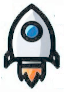
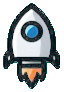
io

diff --git a/basik/pg/doc/index.html b/basik/pg/doc/index.html
@@ -103,12 +103,17 @@
 <h2 id="gambaran-umum">📖 Gambaran Umum</h2>
 <p>BASIK adalah kumpulan perintah/fungsi javascript yang bisa dipakai sebagai media pembelajaran pengenalan koding untuk pemula. BASIK mengenalkan pemrograman kepada pemula dengan membuat aplikasi interaktif berbasis kanvas sederhana. Cocok untuk siswa, guru, atau siapa saja yang ingin belajar dasar pemrograman visual.</p>
 <p>Prinsip-prinsip dasar BASIK
-- Semua perintah bisa langsung dilihat hasilnya tanpa dibingungkan dengan struktur yang kompleks. 
-- Tidak perlu install aplikasi tambahan. BASIK berjalan sepenuhnya di browser.
-- Bisa jalan secara daring ataupun luring.
-- Format perintah bersifat procedural, menghindari penggunaan format yang kompleks seperti callback, class, dll.</p>
+- Perintah yang disederhanakan ✅ 
+- Tanpa install server 📐
+- Memancing kreatifitas 🔥
+- Umpan balik langsung ⚡
+- Fungsi bawaan siap pakai 🧠
+- Struktur proyek siap digunakan 📦
+- Contoh yang variatif 🎨
+- Dapat digunakan secara luring/daring 🌐
+- Jalan di mobile ataupun desktop 📱</p>
 <h2 id="cara-pemakaian">📖 Cara pemakaian</h2>
-<p>Untuk pengguna daring, BASIK bisa di buka melalui alamat berikut: ...<br />
+<p>Untuk pengguna daring, BASIK bisa di buka melalui <a href="https://forkhub.github.io/basik/pg/editor.html">alamat ini</a> 
 Untuk pengguna luring, BASIK bisa di buka dengan membuka file <code>editor.html</code> di broser untuk memulai.  </p>
 <p>Contoh applikasi sederhana:</p>
 <pre><code>mulai();
@@ -126,7 +131,7 @@ roket.panjang = 90;
 roket.lebar = 70;
 stempel(roket);
 </code></pre>
-<p>Pada contoh di atas, kita memuat gambar terlebih dahulu, kemudian kita ubah posisi dan ukuran dari gambar tersebut dengan merubah property secara langsung, kemudian menempelkannya ke kanvas. Saat kita memuat gambar terlebih dahulu, maka kita tidak lagi menggunakan nama file sebagai parameter dari perintah <code>stempel()</code>. Kita menggunakan nama variable yang dijadikan referensi saat memuat gambar.</p>
+<p>Pada contoh di atas, kita memuat gambar terlebih dahulu, kemudian kita ubah posisi dan ukuran dari gambar tersebut dengan merubah property secara langsung, kemudian menempelkannya ke kanvas. Dengan kita tidak lagi menggunakan nama file sebagai parameter dari perintah <code>stempel()</code>. Kita menggunakan nama variable yang dijadikan referensi saat memuat gambar.</p>
 <p>Kita juga bisa merubah property dengan perintah yang lebih ringkas.</p>
 <pre><code>mulai();
 let roket = muatGambar(&quot;roket&quot;);
@@ -136,7 +141,7 @@ stempel(roket);
 </code></pre>
 <p>Daftar perintah lengkap bisa di lihat di <a href="api-doc-gambar.md">sini</a></p>
 <p>BASIK mendukung aplikasi interaktif dan dinamis dengan menyediakan fungsi bawaan yang menangani mouse, keyboard, update applikasi, dll.</p>
-<p>Di contoah di bawah ini menunjukkan bagaimana kita menghandle event update secara sederhana. Anda cukup membuat fungsi update(), dan fungsi ini akan dipanggil secara otomatis saat applikasi diupdate.</p>
+<p>Contoh ini menunjukkan bagaimana kita menghandle event update secara sederhana. Anda cukup membuat fungsi <code>update()</code>, maka fungsi ini akan dipanggil secara otomatis saat applikasi diupdate.</p>
 <pre><code>mulai();
 let roket = muatGambar(&quot;roket&quot;);
 pusatGambar(roket, 32, 46);
@@ -148,7 +153,7 @@ function update() {
     stempel(roket);
 }
 </code></pre>
-<p>BASIK juga menyediakan fungsi bawaan untuk menangani event-event yang berhubungan dengan mouse, touch dan keyboard.</p>
+<p>BASIK juga menyediakan fungsi bawaan untuk menangani event-event yang berhubungan dengan mouse, touch dan keyboard, contoh:</p>
 <pre><code>mulai();
 let roket = muatGambar(&quot;roket&quot;);
 pusatGambar(roket, 32, 46);
@@ -179,47 +184,49 @@ function update() {
 <p>Pada contoh di atas, kita menggunakan drag dengan tipe 1. User bisa mendrag gambar menggunakan mouse atau touch (bila di handphone). </p>
 <p>Dokumentasi lengkap mengenai cara menghandle event bisa dilihat di <a href="api-doc-event/">sini</a></p>
 <h2 id="gambar-sebagai-object">📝 Gambar sebagai object</h2>
-<p>BASIK memiliki object bawaan bernama object Gambar.
+<p>BASIK memiliki object bawaan <code>Gambar</code>.
 Object ini dibuat dengan perintah <code>muatGambar()</code>.</p>
-<p>Object <code>Gambar</code> memiliki property sebagai berikut:
-*   <code>x</code>: number<br />
-    posisi x 
-*   <code>y</code>: number<br />
-    posisi y 
-*   <code>alpha</code>: number<br />
-    transparansi (0 - 100)
-*   <code>pusatX</code>: number<br />
-    posisi pusat x
-*   <code>pusatY</code>: number<br />
-    posisi y 
-*   <code>panjang</code>: number<br />
-    panjang
-*   <code>lebar</code>: number<br />
-    lebar
-*   <code>rotasi</code>: number<br />
-    rotasi (0 - 360)
-*   <code>ubin</code>: boolean<br />
-    apakah gambar akan digambar sebagai ubin yang memenuhi layar
-*   <code>diDrag</code>: boolean<br />
-    apakah gambar sedang di drag
-*   <code>diTekan</code>: boolean<br />
-    apakah gambar sedang di tekan oleh mouse/jari
-*   <code>tipeDrag</code>: number<br />
-    tipe drag: 1 = geser, 2 = rotasi, 3 = geser tanpa sentuh, 4 = rotasi tanpa sentuh
-*   <code>dimuat</code>: boolean<br />
-    apakah gambar sudah selesai di muat
-*   <code>frame</code>: number<br />
-    nomor frame aktif, bila gambar berupa animasi spritesheet
-*   <code>panjangFrame</code>: number<br />
-    panjang dari tiap frame dalam animasi, bila gambar berupa animasi spritesheet. 
-*   <code>lebarFrame</code>: number<br />
-    lebar dari tiap frame, bila gambar berupa animasi spritesheet
-*   <code>dragAwalX</code>: number<br />
-    posisi awal x saat gambar mulai di drag
-*   <code>dragAwalY</code>: number<br />
-    posisi awal y saat gambar mulai di drag
-*   <code>ditekan</code>: boolean<br />
-    apakah gambar sedang di tekan</p>
+<p>Object <code>Gambar</code> memiliki property sebagai berikut:</p>
+<ul>
+<li><code>x</code>: number<br />
+    posisi x </li>
+<li><code>y</code>: number<br />
+    posisi y </li>
+<li><code>alpha</code>: number<br />
+    transparansi (0 - 100)</li>
+<li><code>pusatX</code>: number<br />
+    posisi pusat x</li>
+<li><code>pusatY</code>: number<br />
+    posisi y </li>
+<li><code>panjang</code>: number<br />
+    panjang</li>
+<li><code>lebar</code>: number<br />
+    lebar</li>
+<li><code>rotasi</code>: number<br />
+    rotasi (0 - 360)</li>
+<li><code>ubin</code>: boolean<br />
+    apakah gambar akan digambar sebagai ubin yang memenuhi layar</li>
+<li><code>diDrag</code>: boolean<br />
+    apakah gambar sedang di drag</li>
+<li><code>diTekan</code>: boolean<br />
+    apakah gambar sedang di tekan oleh mouse/jari</li>
+<li><code>tipeDrag</code>: number<br />
+    tipe drag: 1 = geser, 2 = rotasi, 3 = geser tanpa sentuh, 4 = rotasi tanpa sentuh</li>
+<li><code>dimuat</code>: boolean<br />
+    apakah gambar sudah selesai di muat</li>
+<li><code>frame</code>: number<br />
+    nomor frame aktif, bila gambar berupa animasi spritesheet</li>
+<li><code>panjangFrame</code>: number<br />
+    panjang dari tiap frame dalam animasi, bila gambar berupa animasi spritesheet. </li>
+<li><code>lebarFrame</code>: number<br />
+    lebar dari tiap frame, bila gambar berupa animasi spritesheet</li>
+<li><code>dragAwalX</code>: number<br />
+    posisi awal x saat gambar mulai di drag</li>
+<li><code>dragAwalY</code>: number<br />
+    posisi awal y saat gambar mulai di drag</li>
+<li><code>ditekan</code>: boolean<br />
+    apakah gambar sedang di tekan</li>
+</ul>
 <h2 id="lisensi">📖 Lisensi</h2>
 <p>GNU license</p>
 <hr /></div>
@@ -304,5 +311,5 @@ Object ini dibuat dengan perintah <code>muatGambar()</code>.</p>
 
 <!--
 MkDocs version : 1.6.1
-Build Date UTC : 2026-07-18 13:44:50.277989+00:00
+Build Date UTC : 2026-07-20 14:24:14.858371+00:00
 -->

diff --git a/basik/index.html b/basik/index.html
@@ -109,8 +109,9 @@
 	<main>
 		<section>
 			<h2>✨ Tentang BASIK</h2>
-			<p>BASIK adalah template JavaScript berbasis kanvas yang dirancang untuk memudahkan pembelajaran pemrograman
-				bagi pemula.</p>
+			<p>BASIK adalah sebuah platform pembelajaran koding dengan pendekatan interaktif dan permainan.
+			Murid bisa belajar koding sambil bermain membuat applikasi interaktif, games, simulasi, dll.
+			</p>
 		</section>
 
 		<section>
@@ -130,7 +131,7 @@
 
 		<section>
 			<h2>💾 Download</h2>
-			<p>Unduh template BASIK dan mulai belajar:</p>
+			<p>Unduh template BASIK dan mulai belajar secara luring:</p>
 			<a class="button" href="https://drive.google.com/file/d/1zEYIe2S3IFUF_YD0e-ECOmtPK0U0UxLy/view?usp=sharing"
 				target="_blank">Download BASIK</a>
 			<br />
@@ -138,7 +139,7 @@
 
 		<section>
 			<h2>Coba daring</h2>
-			<p>BASIK tersedia juga dalam versi html yang bisa diakses secara daring. Klik tombol berikut untuk membuka
+			<p>BASIK tersedia juga dalam versi yang bisa diakses secara daring. Klik tombol berikut untuk membuka
 				editor</p>
 			<a class="button" href="./pg/editor.html" target="_blank">EDITOR</a>
 			<br />
@@ -146,22 +147,23 @@
 
 		<section>
 			<h2>Dokumentasi</h2>
-			<a class="button" href="./pg/doc/index.html" target="_blank">tautan dokumentasi</a>
+			<p>Dokumentasi teknis berisi cara pemakaian dan perintah2 yang disediakan.</p>
+			<a class="button" href="./pg/doc/index.html" target="_blank">Dokumentasi</a>
 		</section>
 
 		<section>
 			<h2>Demo</h2>
 			<ul>
 				<li>
-					<a href="./pg/editor.html?url=./contoh/dasar_animasi.js">dasar animasi</a>
+					<a href="./pg/editor.html?url=./contoh/dasar_muat_image.js">memuat image</a>
 					<div>
-						Animasi dengan menggunakan spritesheet
+						Dasar memuat image dan menempelkan ke layar.
 					</div>
 				</li>
 				<li>
 					<a href="./pg/editor.html?url=./contoh/dasar_drag.js">drag</a>
 					<div>
-						Menggeser gambar
+						Menggeser gambar dengan mouse
 					</div>
 				</li>
 				<li>
@@ -171,21 +173,21 @@
 					</div>
 				</li>
 				<li>
-					<a href="./pg/editor.html?url=./contoh/dasar_drag_rotasi.js">drag rotasi</a>
+					<a href="./pg/editor.html?url=./contoh/dasar_drag_rotasi.js">memutar gambar</a>
 					<div>
-						Memutar gambar
+						Memutar gambar 
 					</div>
 				</li>
 				<li>
-					<a href="./pg/editor.html?url=./contoh/dasar_muat_image.js">memuat image</a>
-					<div>
-						Memuat gambar
-					</div>
-				</li>
-				<li>
-					<a href="./pg/editor.html?url=./contoh/dasar_rotate_remote.js">rotate remote</a>
+					<a href="./pg/editor.html?url=./contoh/dasar_rotate_remote.js">memutar secara remote</a>
 					<div>
 						Memutar image dengan menggeser di mana saja
+					</div>
+				</li>
+				<li>
+					<a href="./pg/editor.html?url=./contoh/dasar_animasi.js">dasar animasi</a>
+					<div>
+						Animasi dengan menggunakan spritesheet
 					</div>
 				</li>
 				<li>

diff --git a/basik/pg/editor/js/Edit2.js b/basik/pg/editor/js/Edit2.js
@@ -180,7 +180,20 @@ class Edit2 {
         let demo = document.querySelector("dialog.demo") || (() => { throw new Error("Demo dialog not found"); })();
         demo.showModal();
     }
+    reload() {
+        try {
+            // Get the current URL without query parameters and hash
+            const cleanUrl = window.location.origin + window.location.pathname;
+            // Replace the current history entry without reloading
+            window.history.replaceState({}, document.title, cleanUrl);
+            // Reload the page without query parameters
+        }
+        catch (error) {
+            console.error("Failed to reload without query parameters:", error);
+        }
+    }
     baruKlik() {
+        this.reload();
         window.location.reload();
     }
     muatKlik() {

diff --git a/basik/pg/editor/lib/basik.js b/basik/pg/editor/lib/basik.js
@@ -1445,7 +1445,7 @@ var Basik;
             gbr.lebar = lf;
             return gbr;
         }
-        static Muat(url) {
+        static resolveGbrUrl(url) {
             let imgUrl = url;
             if (imgUrl.indexOf("/") >= 0) {
             }
@@ -1457,6 +1457,10 @@ var Basik;
                     imgUrl = imgUrl + ".png";
                 }
             }
+            return imgUrl;
+        }
+        static Muat(url) {
+            let imgUrl = ImgImpl.resolveGbrUrl(url);
             return new Basik.GbrObj(imgUrl);
         }
         static tabrakan(gbr1, x1, y1, gbr2, x2, y2) {
@@ -1468,12 +1472,14 @@ var Basik;
         }
         ;
         static getByName(nama, buat) {
+            nama = Basik.ImgImpl.resolveGbrUrl(nama);
             for (let i = 0; i < Ip.daftar.length; i++) {
                 let item = Ip.daftar[i];
                 if (item.nama == nama)
                     return item;
             }
             if (buat) {
+                console.log("buat item baru");
                 return Ip.Muat(nama);
             }
             return null;

diff --git a/basik/pg/template/lib/basik.js b/basik/pg/template/lib/basik.js
@@ -1445,7 +1445,7 @@ var Basik;
             gbr.lebar = lf;
             return gbr;
         }
-        static Muat(url) {
+        static resolveGbrUrl(url) {
             let imgUrl = url;
             if (imgUrl.indexOf("/") >= 0) {
             }
@@ -1457,6 +1457,10 @@ var Basik;
                     imgUrl = imgUrl + ".png";
                 }
             }
+            return imgUrl;
+        }
+        static Muat(url) {
+            let imgUrl = ImgImpl.resolveGbrUrl(url);
             return new Basik.GbrObj(imgUrl);
         }
         static tabrakan(gbr1, x1, y1, gbr2, x2, y2) {
@@ -1468,12 +1472,14 @@ var Basik;
         }
         ;
         static getByName(nama, buat) {
+            nama = Basik.ImgImpl.resolveGbrUrl(nama);
             for (let i = 0; i < Ip.daftar.length; i++) {
                 let item = Ip.daftar[i];
                 if (item.nama == nama)
                     return item;
             }
             if (buat) {
+                console.log("buat item baru");
                 return Ip.Muat(nama);
             }
             return null;

diff --git a/basik/pg/editor.html b/basik/pg/editor.html
@@ -17,15 +17,15 @@
 	<div class='layout kontainer-utama'>
 
 		<div class='layout header button'>
-			<div class="state-edit">
+			<div class="state-edi">
 				<button class="baru">Baru</button>
 				<button class="simpan">Simpan</button>
 				<button class="muat">Muat</button>
 				<button class="jalan">Jalankan</button>
 			</div>
 
-			<div class="state-jalan">
-				<button class="edit">Edit</button>
+			<div class="state-jalan ">
+				<button class="edit disp-none">Edit</button>
 			</div>
 		</div>
 

diff --git a/basik/pg/doc/api-doc-perintah/index.html b/basik/pg/doc/api-doc-perintah/index.html
@@ -247,7 +247,7 @@ Perintah ini diperlukan kalau kita benar-benar ingin menunggu semua gambar seles
 <p>Mengembalikan informasi tombol terakhir yang terlibat saat ada event keyboard</p>
 <h2 id="perintah-teks">📝 Perintah Teks</h2>
 <p>Perintah-perintah yang berhubungan dengan teks.</p>
-<h5 id="tulis"><code>tulis()</code></h5>
+<h5 id="tulisteks-string-xnumber-ynumber"><code>tulis(teks: string = "", x:number, y:number)</code></h5>
 <p>Menulis sesuatu di layar</p>
 <p><strong>Parameters</strong></p>
 <ul>
@@ -256,8 +256,7 @@ Perintah ini diperlukan kalau kita benar-benar ingin menunggu semua gambar seles
 <li><code>x</code>: <code>number</code>, opsional
     posisi x dari tulisan, bila tidak disediakan maka akan sama dengan teks sebelumnya</li>
 <li><code>y</code>: <code>number</code>, optional
-    posisi y dari tulisan, bila tidak disediakan maka posisinya adalah di bawah teks sebelumnyas
-s</li>
+    posisi y dari tulisan, bila tidak disediakan maka posisinya adalah di bawah teks sebelumnya</li>
 </ul></div>
             </div>
         </div>

diff --git a/basik/pg/doc/api-doc-event/index.html b/basik/pg/doc/api-doc-event/index.html
@@ -87,7 +87,7 @@ function mouseDitekan() {
 }
 </code></pre>
 <p>Bila contoh diatas dijalankan, ketika user menekan tombol mouse maka gambar roket akan di gambar pada posisi dimana mouse berada.</p>
-<p>Berikut adalah daftar fungsi yang akan dipanggil secara otomatis dan event yang berkaitan dengan fungsi tersebut</p>
+<p>Berikut adalah daftar fungsi yang akan dipanggil secara otomatis dan event yang berkaitan dengan fungsi tersebut:</p>
 <ul>
 <li>mouseDitekan: ketika mouse mulai ditekan</li>
 <li>mouseDilepas: ketika mouse mulai dilepaskan</li>

diff --git a/basik/pg/editor/lib/basik.d.ts b/basik/pg/editor/lib/basik.d.ts
@@ -367,6 +367,7 @@ declare namespace Basik {
         static set lastImg(value: GbrObj);
         static CreateImage(width: number, height: number): GbrObj;
         static MuatAnimasi(url: string, pf: number, lf: number): GbrObj;
+        static resolveGbrUrl(url: string): string;
         static Muat(url: string): GbrObj;
         static tabrakan(gbr1: GbrObj, x1: number, y1: number, gbr2: GbrObj, x2: number, y2: number): boolean;
         static getByName(nama: string, buat: boolean): GbrObj;

diff --git a/basik/pg/template/lib/basik.d.ts b/basik/pg/template/lib/basik.d.ts
@@ -367,6 +367,7 @@ declare namespace Basik {
         static set lastImg(value: GbrObj);
         static CreateImage(width: number, height: number): GbrObj;
         static MuatAnimasi(url: string, pf: number, lf: number): GbrObj;
+        static resolveGbrUrl(url: string): string;
         static Muat(url: string): GbrObj;
         static tabrakan(gbr1: GbrObj, x1: number, y1: number, gbr2: GbrObj, x2: number, y2: number): boolean;
         static getByName(nama: string, buat: boolean): GbrObj;